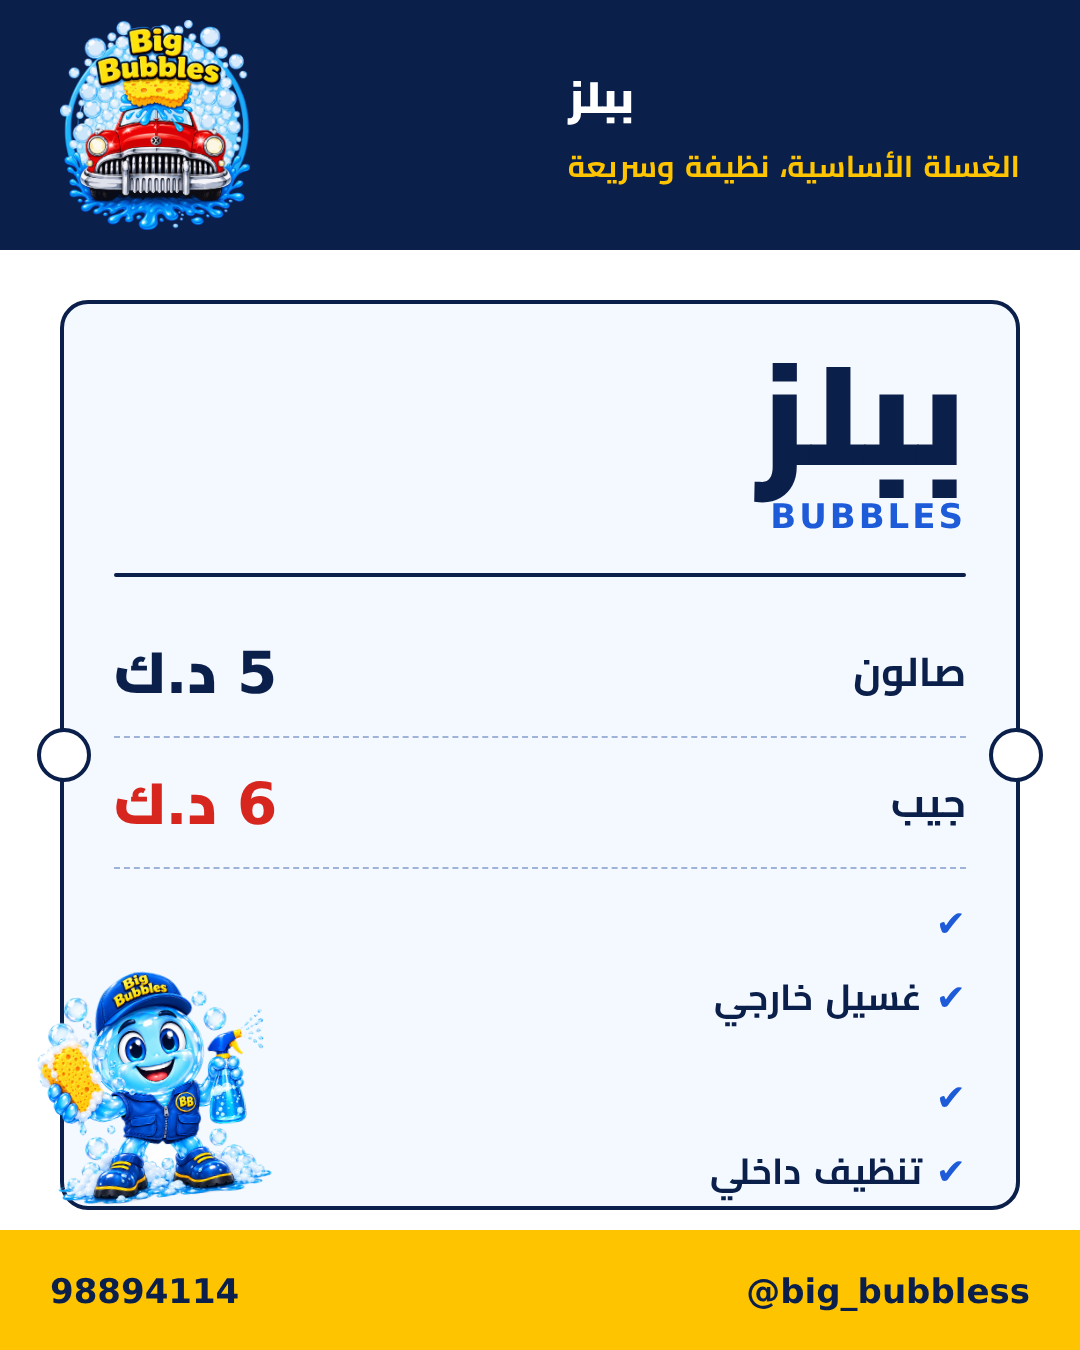
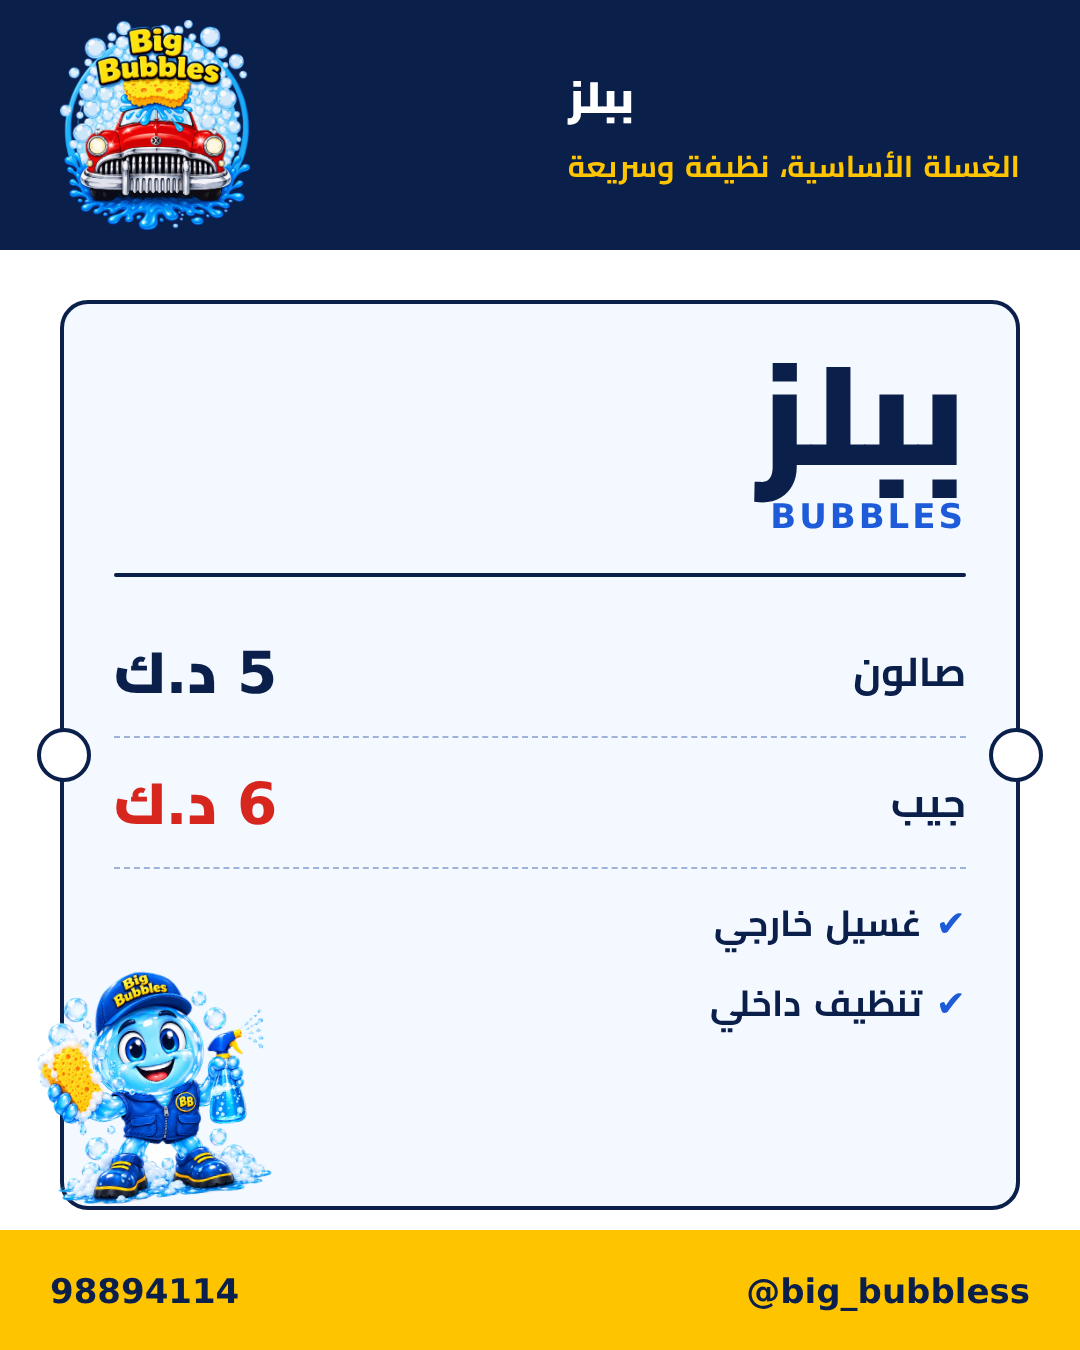
Fix concept A title spacing and concept B service list
Claude-Session: https://claude.ai/code/session_013XYEeoGyPbCxnWrxN9YYVu

diff --git a/car-wash/designs/concepts/bubbles-A-hero.html b/car-wash/designs/concepts/bubbles-A-hero.html
@@ -12,7 +12,7 @@ body{background:var(--blue);position:relative}
 .logo{position:absolute;top:20px;left:50%;transform:translateX(-50%);width:190px}
 .name{position:absolute;top:165px;width:100%;text-align:center;color:var(--gold);font-size:130px;font-weight:900;
   text-shadow:0 8px 0 var(--navy)}
-.en{position:absolute;top:330px;width:100%;text-align:center;color:var(--white);font-size:38px;font-weight:700;letter-spacing:4px}
+.en{position:absolute;top:372px;width:100%;text-align:center;color:var(--white);font-size:38px;font-weight:700;letter-spacing:4px}
 .mascot{position:absolute;left:50%;transform:translateX(-50%);top:440px;width:460px}
 .prices{position:absolute;top:900px;left:70px;right:70px;display:flex;gap:24px}
 .pb{flex:1;text-align:center;border-radius:36px;padding:20px 0;background:var(--navy);color:var(--white);box-shadow:0 10px 0 #05112a}

diff --git a/car-wash/designs/concepts/bubbles-B-ticket.html b/car-wash/designs/concepts/bubbles-B-ticket.html
@@ -29,6 +29,6 @@ body{background:var(--white)}
 <div class="ticket"><div class="name">ببلز</div><div class="en">BUBBLES</div><div class="line"></div>
 <div class="row"><span>صالون</span><strong>5 د.ك</strong></div>
 <div class="row g"><span>جيب</span><strong>6 د.ك</strong></div>
-<div class="inc"><div class="inc"><div>غسيل خارجي</div></div><div class="inc"><div>تنظيف داخلي</div></div></div></div>
+<div class="inc"><div>غسيل خارجي</div><div>تنظيف داخلي</div></div></div>
 <img class="mascot" src="../../brand/mascot/big-bubbles-mascot-transparent.png">
 <div class="foot"><span class="ltr">@big_bubbless</span><span class="ltr">98894114</span></div></body></html>

diff --git a/car-wash/designs/build_concepts.py b/car-wash/designs/build_concepts.py
@@ -29,7 +29,7 @@ body{background:var(--blue);position:relative}
 .logo{position:absolute;top:20px;left:50%;transform:translateX(-50%);width:190px}
 .name{position:absolute;top:165px;width:100%;text-align:center;color:var(--gold);font-size:130px;font-weight:900;
   text-shadow:0 8px 0 var(--navy)}
-.en{position:absolute;top:330px;width:100%;text-align:center;color:var(--white);font-size:38px;font-weight:700;letter-spacing:4px}
+.en{position:absolute;top:372px;width:100%;text-align:center;color:var(--white);font-size:38px;font-weight:700;letter-spacing:4px}
 .mascot{position:absolute;left:50%;transform:translateX(-50%);top:440px;width:460px}
 .prices{position:absolute;top:900px;left:70px;right:70px;display:flex;gap:24px}
 .pb{flex:1;text-align:center;border-radius:36px;padding:20px 0;background:var(--navy);color:var(--white);box-shadow:0 10px 0 #05112a}
@@ -104,7 +104,7 @@ def build(d):
 <div class="pb j"><small>جيب</small><strong>{j}</strong><em>د.ك</em></div></div>
 <div class="chips">{chips}</div>
 <div class="foot"><b class="ltr">{phone}</b><span class="ltr">{ig}</span></div>''')
-    rows = "".join(f'<div class="inc"><div>{i}</div></div>' for i in d["items"])
+    rows = "".join(f"<div>{i}</div>" for i in d["items"])
     b = page(B, f'''<div class="top"><div class="tt"><b>{ar}</b>{d["note"]}</div><img src="{LOGO}"></div>
 <div class="ticket"><div class="name">{ar}</div><div class="en">{en}</div><div class="line"></div>
 <div class="row"><span>صالون</span><strong>{s} د.ك</strong></div>
